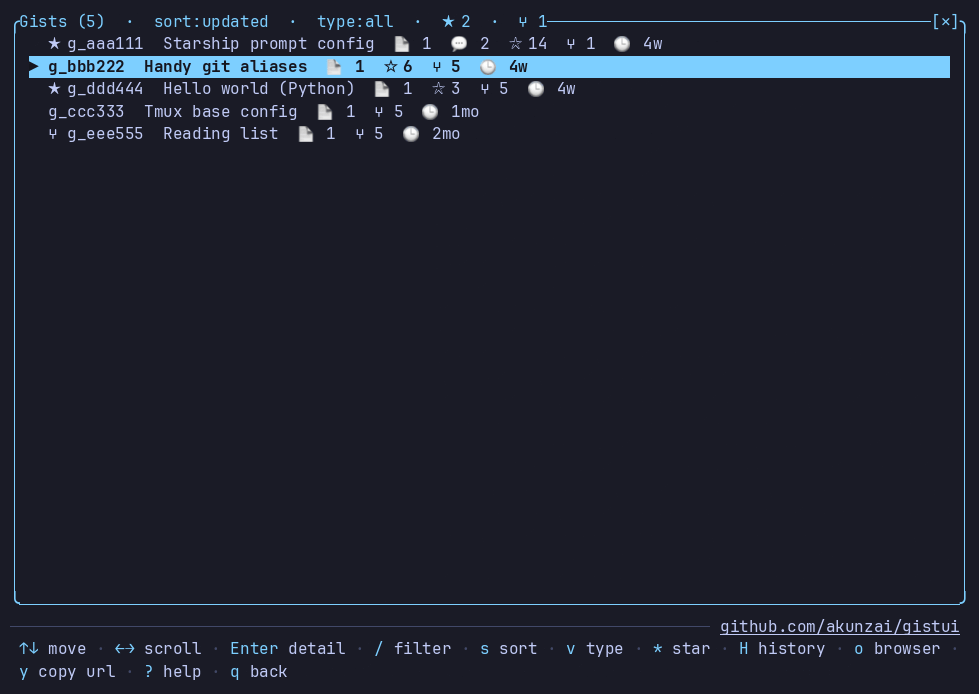
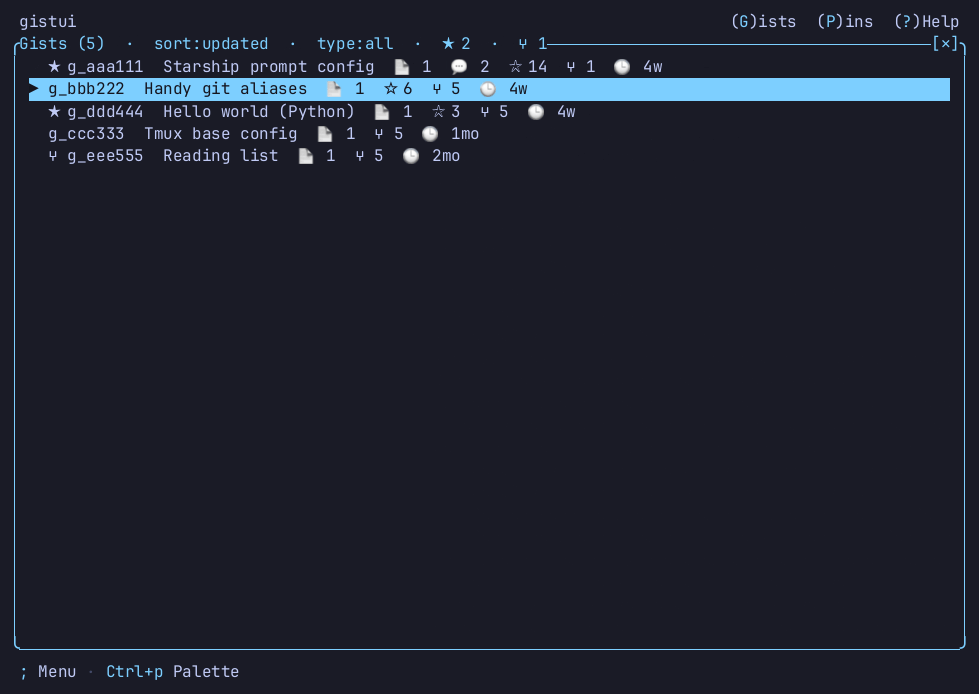
chore: release v0.16.0
Stamp the changelog and regenerate demo GIF and gist-manager screenshot
for the TUI UX redesign (context menu, command palette, footer polish).

diff --git a/CHANGELOG.md b/CHANGELOG.md
@@ -10,6 +10,8 @@ and this project adheres to [Semantic Versioning](https://semver.org/spec/v2.0.0
 
 ## [Unreleased]
 
+## [0.16.0] — 2026-07-08
+
 - The footer no longer draws a horizontal rule above its text — one fewer row of chrome on every screen that shows a footer hint or status.
 - A unified context menu (`;` or right-click) and command palette (`Ctrl+p`) list action verbs for the current screen — the menu shows only what's valid for your selection; the palette shows everything plus cross-screen shortcuts (`Go to Pins`, `Toggle theme`, `Quit`, …) with fuzzy-filter search. The idle footer now hints `; Menu · Ctrl+p Palette`.
 - Every screen now shows a `(G)ists (P)ins (?)Help` shortcut bar in the top-right corner (click, or use the existing `g`/`P`/`?` keys, from any screen); the footer's long per-screen hotkey list is gone and it now fully collapses when idle (no divider, no blank row — the space goes back to content), since Help discoverability lives in the top bar (press `?` for the full keymap).
@@ -168,7 +170,8 @@ and this project adheres to [Semantic Versioning](https://semver.org/spec/v2.0.0
 - Off-thread loading with an on-disk cache.
 - Overwrite-confirm safety gate.
 
-[unreleased]: https://github.com/akunzai/gistui/compare/v0.15.2...HEAD
+[unreleased]: https://github.com/akunzai/gistui/compare/v0.16.0...HEAD
+[0.16.0]: https://github.com/akunzai/gistui/releases/tag/v0.16.0
 [0.15.2]: https://github.com/akunzai/gistui/releases/tag/v0.15.2
 [0.15.1]: https://github.com/akunzai/gistui/releases/tag/v0.15.1
 [0.15.0]: https://github.com/akunzai/gistui/releases/tag/v0.15.0